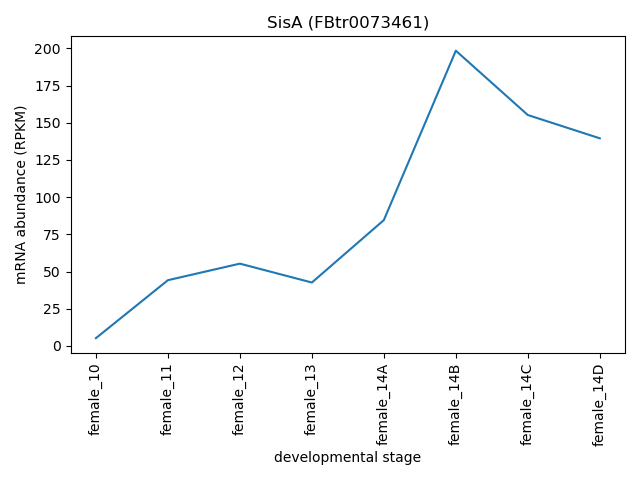
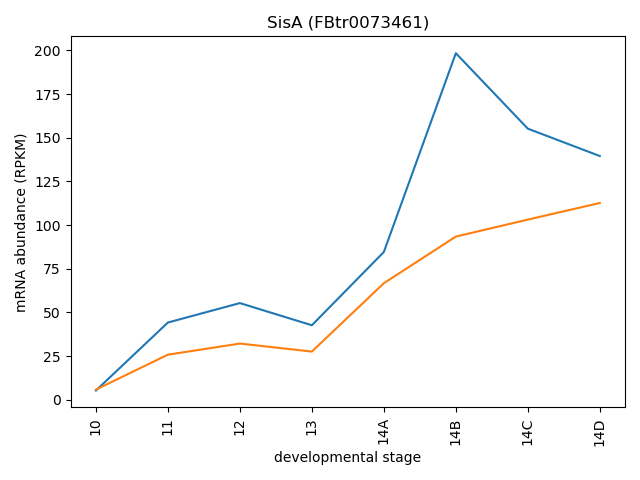
Add answer for exercise 1 steps 2 and 4

diff --git a/day2-homework/plot-sisA.py b/day2-homework/plot-sisA.py
@@ -20,31 +20,19 @@ for i in range(len(transcripts)):
     if transcripts[i] == 'FBtr0073461':
         row = i
 
-# Find columns with female samples
-fCols = []
+# Iterate through
+expr = []
+fExpr = []
+mExpr = []
+
 for i in range(len(samples)):
+    expr.append(data[row,i])
     if "female" in samples[i]:
-        fCols.append(i)
+        fExpr.append(expr[i])
+    else:
+        mExpr.append(expr[i])
 
-# Subset female data
-fExpression = data[row, fCols]
-
-# Prepare data
-fX = samples[fCols]
-fY = fExpression
-
-# Find columns with male samples
-mCols = []
-for i in range(len(samples)):
-    if "female" in samples[i]:
-        mCols.append(i)
-
-# Subset male data
-mExpression = data[row, mCols]
-
-# Prepare data
-mX = samples[mCols]
-mY = mExpression
+devStages = ['10', '11', '12', '13', '14A', '14B', '14C', '14D']
 
 # Plot data
 fig, ax = plt.subplots()
@@ -52,11 +40,10 @@ ax.set_title( "SisA (FBtr0073461)" )
 ax.set_ylabel("mRNA abundance (RPKM)")
 ax.set_xlabel("developmental stage")
 
-ax.plot(fX,fY)
-ax.plot(mX,mY)
+ax.plot(devStages, fExpr)
+ax.plot(devStages, mExpr)
 
 plt.xticks(rotation = 90)
-#ax.set_xticklabels(ax.get_xticklabels(), rotation = 90, ha = 'right')
 plt.tight_layout()
 fig.savefig( "FBtr0073461.png" )
 plt.close( fig )
